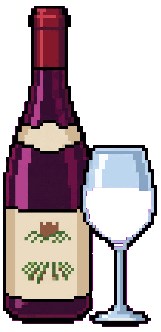
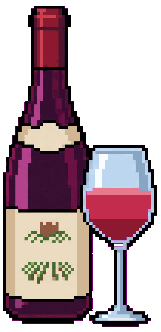
fix(ios): the walk's four — a red cru, a louder speaker, no face in INFO
- Cru Beaujolais's glass was EMPTY, not white: the bowl interior was
  left as key-magenta and stripped transparent. Filled at the source
  with bright gamay red, a lit surface line and a deeper foot.
- INFO loses the VINOBOT face (maintainer order, same day it arrived);
  the speaker is the section's visible control now — 44pt bordered
  button, accent-filled while reading.
- Body-class audit recorded: Full and Medium still ship the legacy
  kettlebell and scales, mismatched with the new feather-and-glass
  Light — two tiles queued for the maintainer's next mini-sheet.
- Country-outline audit: all 34 covered; Bulgaria, Moldova, Armenia,
  Cyprus and Turkey are ring-generated polygons (defensible geography,
  visibly cruder than the 29 hand-drawn) — queued for the same sheet.

Changed region(s): [[0.528, 0.5422, 0.9627, 0.7229]]

diff --git a/Sources/VinodexUI/Screens/EntryDetailScreen.swift b/Sources/VinodexUI/Screens/EntryDetailScreen.swift
@@ -728,20 +728,10 @@ public struct EntryDetailScreen: View {
 
     private var infoSection: some View {
         DexSection("INFO", symbol: "book") {
-            // VINOBOT presents the page (0.9.53, maintainer order): his face
-            // is the door to his own screen, and the speaker reads the
-            // original info text aloud in his voice — the take section this
-            // replaces read only his one-liner.
-            HStack(alignment: .top, spacing: 10) {
-                DexChromeGlyph(
-                    VinoExpression.thinking.artStem,
-                    symbol: "graduationcap.fill",
-                    size: 34,
-                    tint: lcd.accent
-                )
-                .modifier(TileLink(destination: .profVino, onOpen: onOpenRoute))
-                .accessibilityLabel("Open Vinobot's page")
-
+            // The page reads itself aloud (0.9.53; face removed same day by
+            // maintainer order — the speaker alone carries VINOBOT's voice
+            // here, large enough to be the section's visible control).
+            HStack(alignment: .top, spacing: 12) {
                 Text(entry.entryDescription)
                     .font(DexFont.mono(18))
                     .foregroundStyle(lcd.bodyText)
@@ -756,10 +746,21 @@ public struct EntryDetailScreen: View {
                     Image(systemName: vinoVoice.speaking
                         ? "speaker.wave.2.fill"
                         : "speaker.wave.2")
-                        .font(.system(size: 15, weight: .bold))
-                        .foregroundStyle(vinoVoice.speaking ? lcd.accent : lcd.subtext)
+                        .font(.system(size: 20, weight: .bold))
+                        .foregroundStyle(vinoVoice.speaking
+                            ? (lcd.isLight ? .white : .black)
+                            : lcd.accent)
+                        .frame(width: 44, height: 44)
+                        .background(
+                            RoundedRectangle(cornerRadius: 8)
+                                .fill(vinoVoice.speaking ? AnyShapeStyle(lcd.accent) : AnyShapeStyle(lcd.surface))
+                        )
+                        .overlay(
+                            RoundedRectangle(cornerRadius: 8)
+                                .strokeBorder(lcd.accent.opacity(0.7), lineWidth: 2)
+                        )
                 }
-                .buttonStyle(DexPressStyle(scale: 0.9))
+                .buttonStyle(DexPressStyle(scale: 0.94))
                 .accessibilityLabel(vinoVoice.speaking
                     ? "Stop Vinobot reading"
                     : "Have Vinobot read this aloud")
